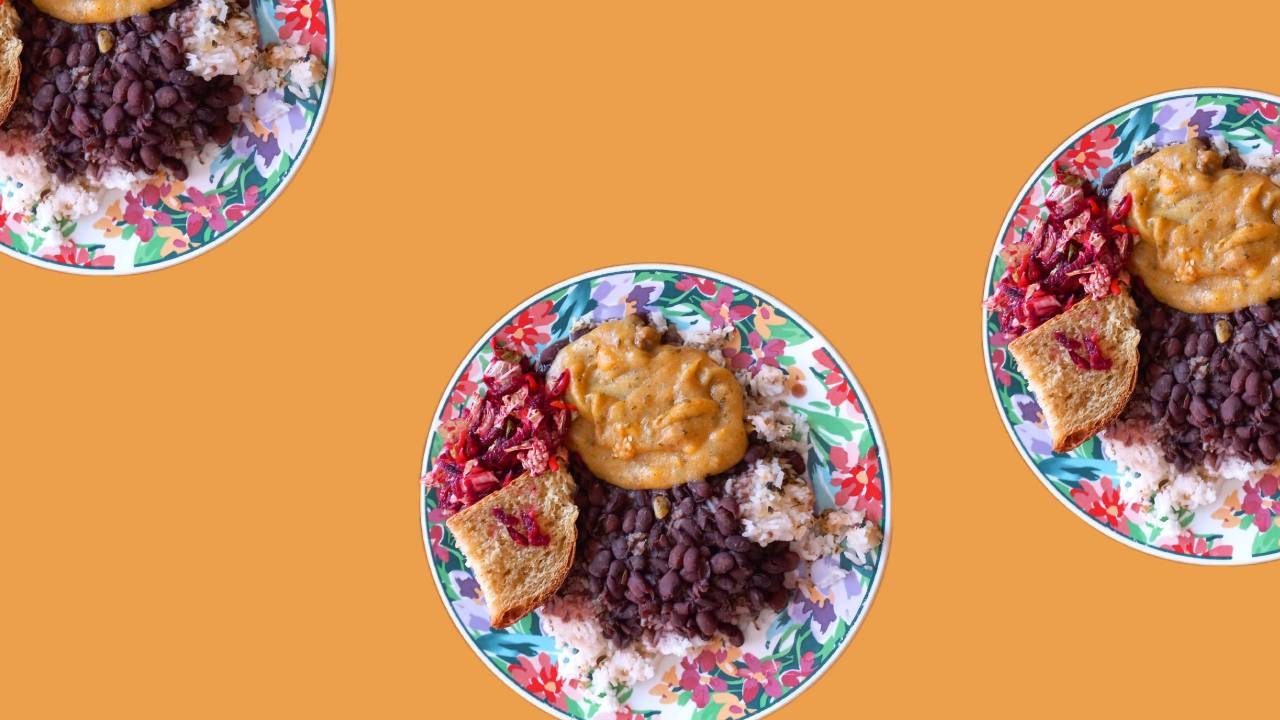
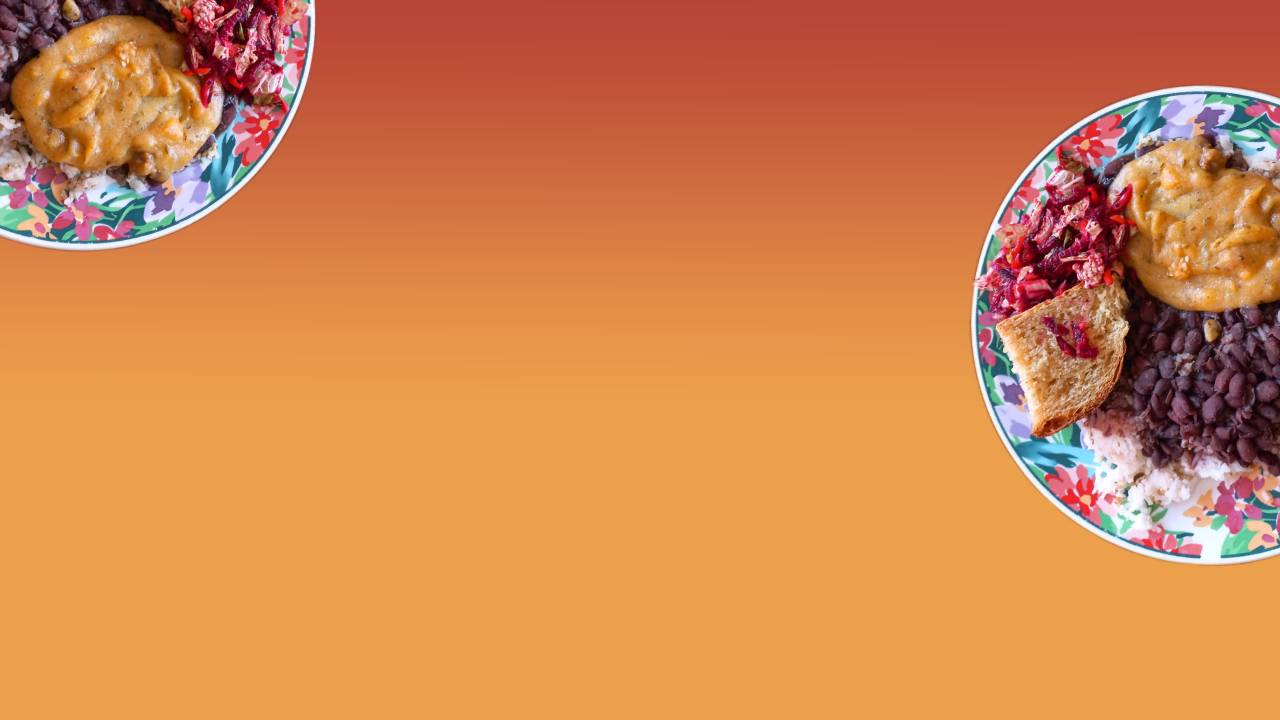
adicionei responsividade, alterei imagem de fundo

diff --git a/style.css b/style.css
@@ -1,12 +1,15 @@
+@import url('https://fonts.googleapis.com/css2?family=Sarabun:wght@300&display=swap');
+
 body,html{
     margin: 0;
     width: 100%;
-    font-family: Arial, Helvetica, sans-serif;
+    font-family: 'Sarabun', sans-serif;
+
 }
 header{
     background-color: #b84435;
     color: #ffffff;
-    height:90px;
+    height:80px;
     width: 100%;
     position: fixed;
     z-index: 10;
@@ -63,8 +66,9 @@ a{
     padding-bottom: 10%;
 }
 #titulo{
-    padding-top: 10%;
+    padding-top: 12%;
     color:#ffffff;
+    font-family: 'Raleway', sans-serif;
    
 }
 #subtitulo{
@@ -153,3 +157,28 @@ a{
     font-size: 10px;
         
  }
+
+
+ @media all and (max-width:768px){
+    #menu{
+        visibility: hidden;
+    }
+    .col01, .col03, .col04{
+        display: block;
+        width: 80%;
+        padding: 0;
+        margin: 10px auto;
+        float: none;
+    }
+    #logodiv{
+        width: 100%;
+        position: relative;
+        text-align: center;
+        
+    }
+    #logo{
+        margin-left: 0px;
+        transform: translate(-50%);
+    }
+ }
+

diff --git a/index.html b/index.html
@@ -5,14 +5,13 @@
     <meta charset="UTF-8">
     <meta name="viewport" content="width=device-width, initial-scale=1.0">
     <link rel="icon" type="#" size="32x32" href="imagens/favicon.png">
-    
     <link rel="stylesheet" href="style.css">
     <title>ODS Alimentos para a Vida</title>
 </head>
 
 <body>
     <header>
-        <div >
+        <div id="logodiv">
             <img id="logo" src="imagens/logo-iskcon.png" alt="logo isknon"/>
             <ul id="menu">
                 <li><a href="#programa">Programa</a></li>
